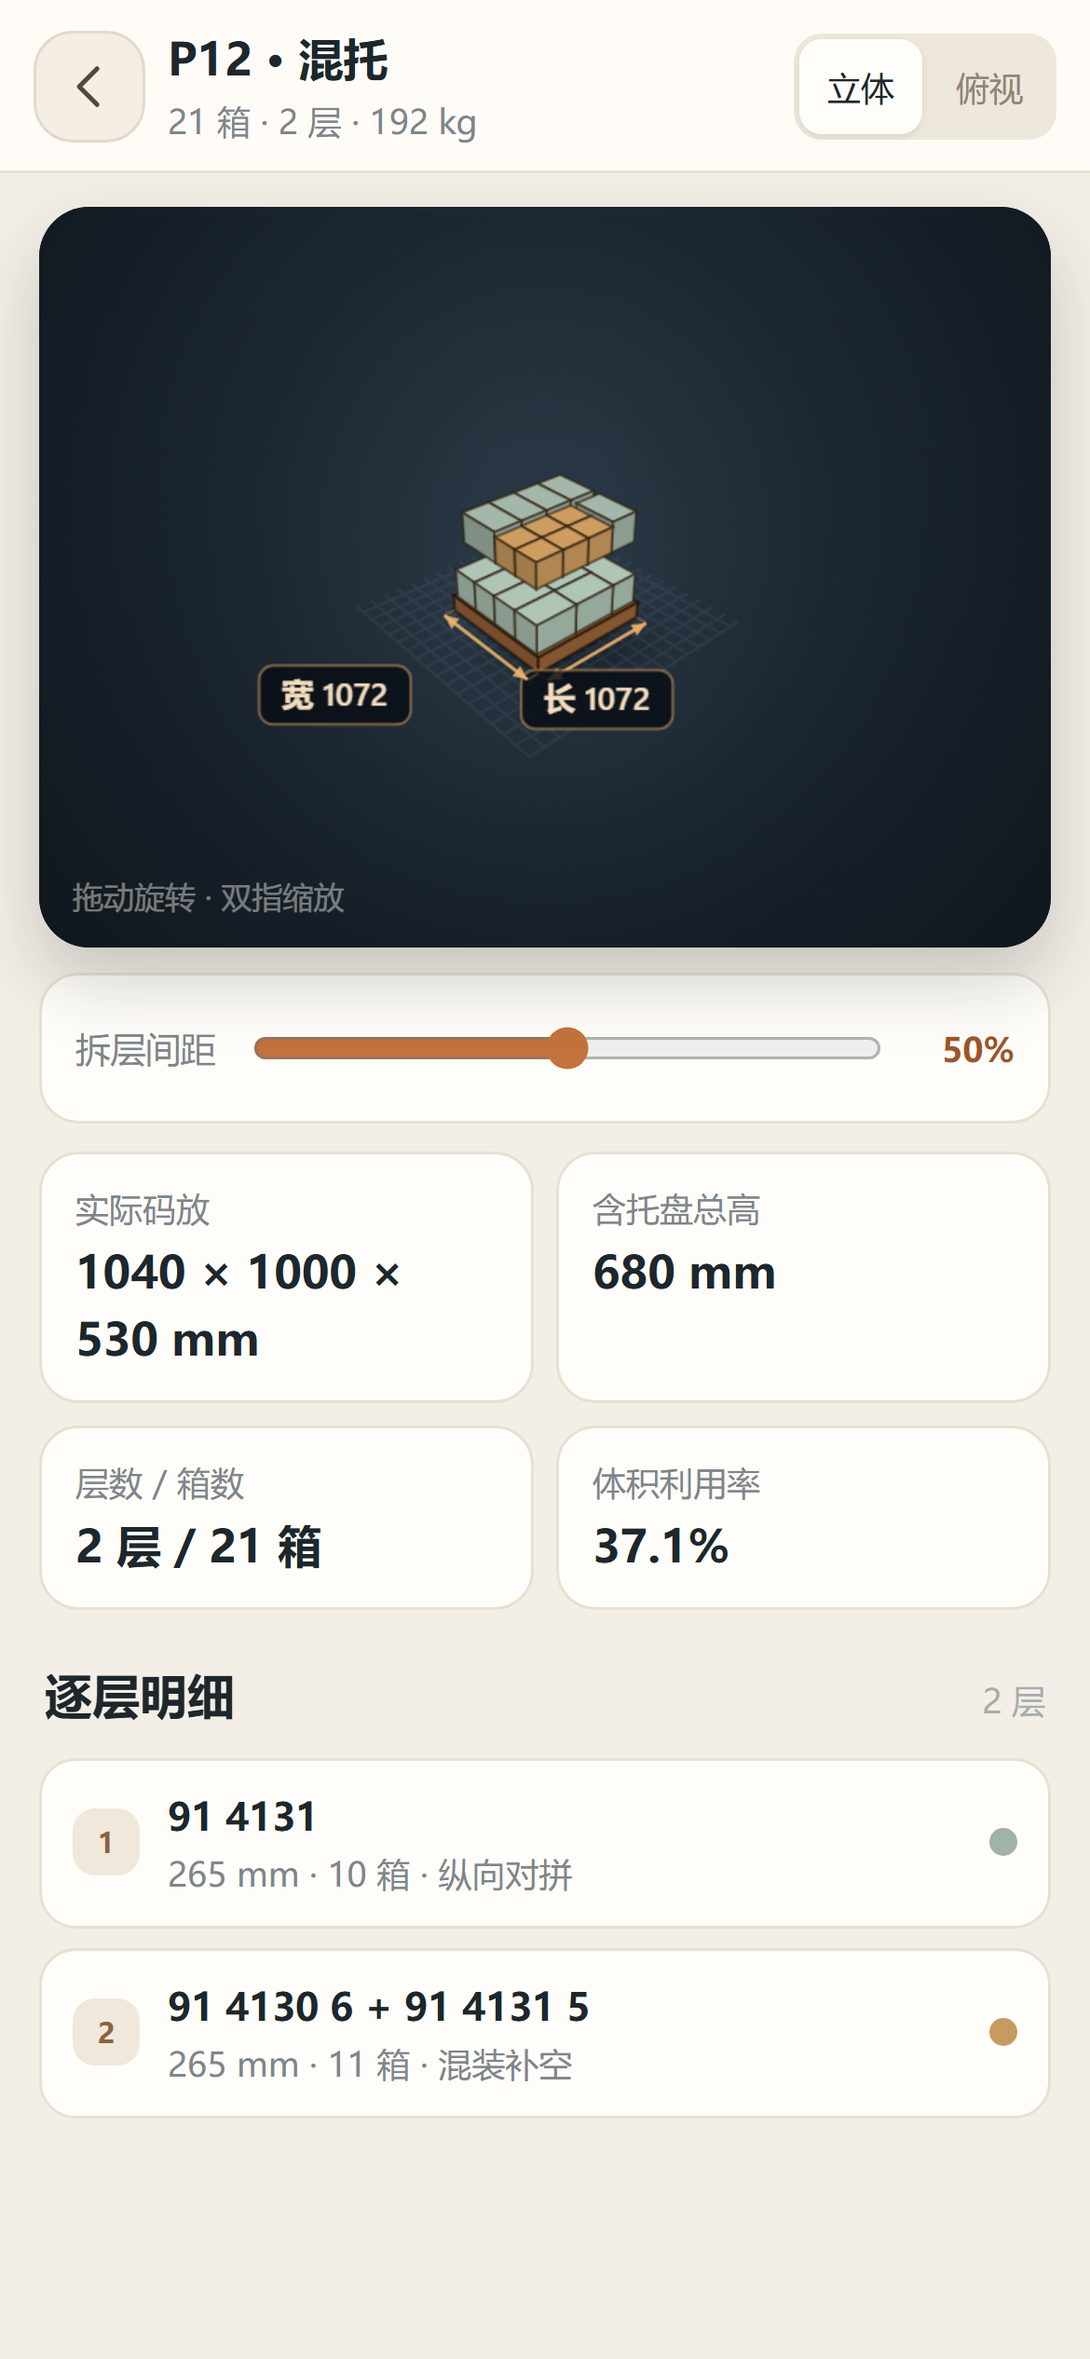
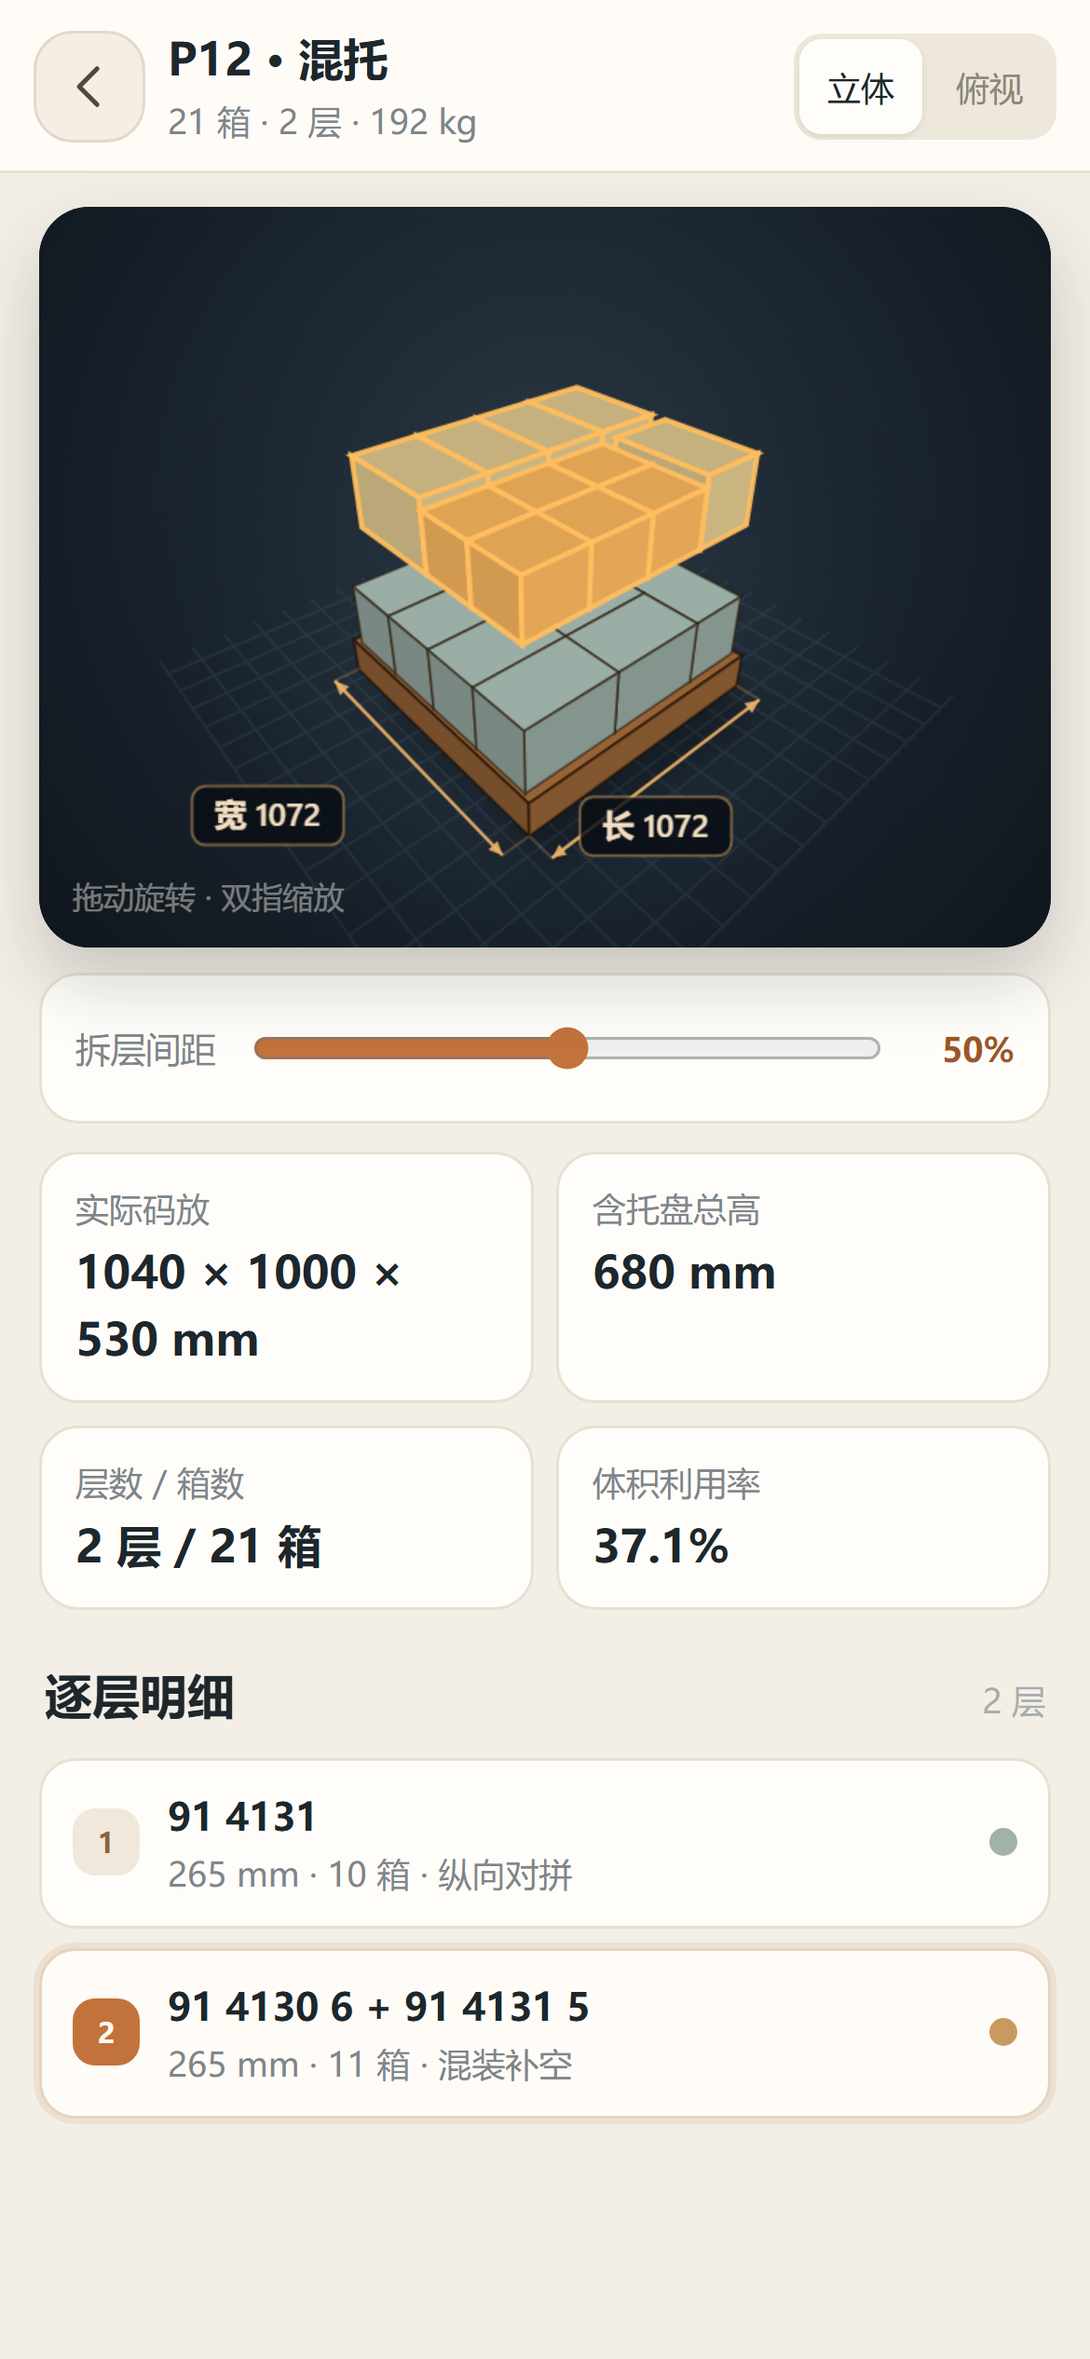
Palletizer v1.4: pinch direction, layer highlight, font size setting

Changed region(s): [[0.1846, 0.156, 0.7077, 0.3744], [0.0615, 0.8424, 0.1231, 0.8736]]

diff --git a/css/readability.css b/css/readability.css
@@ -1,59 +1,68 @@
-/* Palletizer v1.2：手机可读性 + 3D 拆层间距 */
+/* Palletizer：手机可读性、字体档位、3D 拆层间距 */
+:root { --fs: 1; }
+html[data-font="large"] { --fs: 1.12; }
+html[data-font="xlarge"] { --fs: 1.24; }
+html[data-font="xxlarge"] { --fs: 1.36; }
+
 html { -webkit-text-size-adjust: 100%; }
-body { font-size: 17px; line-height: 1.5; }
-.brand-text h1 { font-size: 21px; }
-.brand-text p { font-size: 12px; }
-.brand-mark { width: 40px; height: 40px; font-size: 21px; }
-.card h2, .card-title { font-size: 17px; }
-.chip { font-size: 12px; padding: 5px 10px; }
-.text-btn { font-size: 15px; }
-.field span { font-size: 13px; }
-.field input { height: 50px; font-size: 18px; }
-.usable-line span { font-size: 13px; }
-.usable-line strong { font-size: 23px; }
-.micro { font-size: 13px; }
-.carton-main strong { font-size: 15px; }
-.carton-main small { font-size: 13px; }
-.carton-qty b { font-size: 19px; }
-.carton-qty span { font-size: 10px; }
-.switch-row { min-height: 60px; }
-.switch-row b { font-size: 15px; }
-.switch-row small { font-size: 13px; }
-.primary-btn { min-height: 56px; font-size: 17px; }
-.secondary-btn { font-size: 15px; }
-.input-hint { font-size: 12px; }
-.hero-kicker { font-size: 12px; }
-.hero-total strong { font-size: 64px; }
-.hero-sub { font-size: 13px; }
-.hero-grid b { font-size: 18px; }
-.hero-grid span { font-size: 11.5px; }
-.plan-note { font-size: 13px; }
-.section-line h2 { font-size: 17px; }
-.section-line span { font-size: 12px; }
-.pallet-main strong { font-size: 15px; }
-.pallet-main small { font-size: 13px; line-height: 1.45; }
-.pallet-num b { font-size: 20px; }
-.pallet-num span { font-size: 10px; }
-.badge { font-size: 10px; padding: 3px 7px; }
-.empty-state h2 { font-size: 19px; }
-.empty-state p { font-size: 13px; }
-.settings-text { font-size: 13px; }
-.settings-text.muted { font-size: 11.5px; }
-.list-btn span { font-size: 15px; }
-.list-btn em { font-size: 11px; }
-.install-badge { font-size: 12px; }
-.tab { font-size: 13px; min-height: 56px; }
-.tab svg { width: 23px; height: 23px; }
-.detail-head h2 { font-size: 16px; }
-.detail-head p { font-size: 12px; }
-.seg button { font-size: 12px; padding: 8px 10px; }
-.scene-hint { font-size: 11px; }
-.detail-metrics span { font-size: 12px; }
-.detail-metrics b { font-size: 16px; }
-.layer-main strong { font-size: 13.5px; }
-.layer-main small { font-size: 12px; }
-.sheet-head h2 { font-size: 19px; }
-.toast { font-size: 13px; }
+body { font-size: calc(17px * var(--fs)); line-height: 1.5; }
+.view {
+  padding-top: calc(78px + var(--safe-top) + (var(--fs) - 1) * 22px);
+  padding-bottom: calc(92px + var(--safe-bottom) + (var(--fs) - 1) * 18px);
+}
+.brand-text h1 { font-size: calc(21px * var(--fs)); }
+.brand-text p { font-size: calc(12px * var(--fs)); }
+.brand-mark { width: calc(40px * var(--fs)); height: calc(40px * var(--fs)); font-size: calc(21px * var(--fs)); }
+.card h2, .card-title { font-size: calc(17px * var(--fs)); }
+.chip { font-size: calc(12px * var(--fs)); padding: 5px 10px; }
+.text-btn { font-size: calc(15px * var(--fs)); }
+.field span { font-size: calc(13px * var(--fs)); }
+.field input { height: calc(50px * var(--fs)); font-size: calc(18px * var(--fs)); }
+.usable-line span { font-size: calc(13px * var(--fs)); }
+.usable-line strong { font-size: calc(23px * var(--fs)); }
+.micro { font-size: calc(13px * var(--fs)); }
+.carton-main strong { font-size: calc(15px * var(--fs)); }
+.carton-main small { font-size: calc(13px * var(--fs)); }
+.carton-qty b { font-size: calc(19px * var(--fs)); }
+.carton-qty span { font-size: calc(10px * var(--fs)); }
+.switch-row { min-height: calc(60px * var(--fs)); }
+.switch-row b { font-size: calc(15px * var(--fs)); }
+.switch-row small { font-size: calc(13px * var(--fs)); }
+.primary-btn { min-height: calc(56px * var(--fs)); font-size: calc(17px * var(--fs)); }
+.secondary-btn { font-size: calc(15px * var(--fs)); }
+.input-hint { font-size: calc(12px * var(--fs)); }
+.hero-kicker { font-size: calc(12px * var(--fs)); }
+.hero-total strong { font-size: calc(64px * var(--fs)); }
+.hero-sub { font-size: calc(13px * var(--fs)); }
+.hero-grid b { font-size: calc(18px * var(--fs)); }
+.hero-grid span { font-size: calc(11.5px * var(--fs)); }
+.plan-note { font-size: calc(13px * var(--fs)); }
+.section-line h2 { font-size: calc(17px * var(--fs)); }
+.section-line span { font-size: calc(12px * var(--fs)); }
+.pallet-main strong { font-size: calc(15px * var(--fs)); }
+.pallet-main small { font-size: calc(13px * var(--fs)); line-height: 1.45; }
+.pallet-num b { font-size: calc(20px * var(--fs)); }
+.pallet-num span { font-size: calc(10px * var(--fs)); }
+.badge { font-size: calc(10px * var(--fs)); padding: 3px 7px; }
+.empty-state h2 { font-size: calc(19px * var(--fs)); }
+.empty-state p { font-size: calc(13px * var(--fs)); }
+.settings-text { font-size: calc(13px * var(--fs)); }
+.settings-text.muted { font-size: calc(11.5px * var(--fs)); }
+.list-btn span { font-size: calc(15px * var(--fs)); }
+.list-btn em { font-size: calc(11px * var(--fs)); }
+.install-badge { font-size: calc(12px * var(--fs)); }
+.tab { font-size: calc(13px * var(--fs)); min-height: calc(56px * var(--fs)); }
+.tab svg { width: calc(23px * var(--fs)); height: calc(23px * var(--fs)); }
+.detail-head h2 { font-size: calc(16px * var(--fs)); }
+.detail-head p { font-size: calc(12px * var(--fs)); }
+.seg button { font-size: calc(12px * var(--fs)); padding: 8px 10px; }
+.scene-hint { font-size: calc(11px * var(--fs)); }
+.detail-metrics span { font-size: calc(12px * var(--fs)); }
+.detail-metrics b { font-size: calc(16px * var(--fs)); }
+.layer-main strong { font-size: calc(13.5px * var(--fs)); }
+.layer-main small { font-size: calc(12px * var(--fs)); }
+.sheet-head h2 { font-size: calc(19px * var(--fs)); }
+.toast { font-size: calc(13px * var(--fs)); }
 
 /* 3D 拆层间距 */
 .explode-row {
@@ -61,6 +70,13 @@ body { font-size: 17px; line-height: 1.5; }
   margin-top: 9px; padding: 10px 12px;
   background: var(--card); border: 1px solid var(--line); border-radius: 14px;
 }
-.explode-row span { font-size: 12.5px; color: var(--muted); white-space: nowrap; }
+.explode-row span { font-size: calc(12.5px * var(--fs)); color: var(--muted); white-space: nowrap; }
 .explode-row input[type="range"] { flex: 1; accent-color: var(--accent); height: 28px; }
-.explode-row b { font-size: 12px; color: var(--accent-dark); min-width: 34px; text-align: right; }
+.explode-row b { font-size: calc(12px * var(--fs)); color: var(--accent-dark); min-width: 34px; text-align: right; }
+
+/* 字体大小设置 */
+.font-row { display: flex; align-items: center; justify-content: space-between; gap: 10px; }
+.font-row > span { font-size: calc(13px * var(--fs)); color: var(--muted); white-space: nowrap; }
+.font-seg { display: flex; gap: 3px; background: #f1ede5; border-radius: 12px; padding: 3px; }
+.font-seg button { border: 0; background: transparent; color: #8c8579; font-size: calc(12px * var(--fs)); border-radius: 9px; padding: 8px 9px; min-height: 36px; }
+.font-seg button.active { background: var(--card); color: var(--accent-dark); font-weight: 700; box-shadow: 0 1px 4px rgba(0,0,0,.08); }

diff --git a/js/mobile.js b/js/mobile.js
@@ -4,7 +4,7 @@
   var Core = window.PalletCore;
   var XL = window.XlsxLite;
   var KEY = 'palletizer.v1';
-  var VERSION = '1.3.0';
+  var VERSION = '1.4.0';
   var PALETTE = ['#C99A5F', '#9FB3A6', '#C7A6A0', '#B1A3C9', '#D1B280', '#8FA9B8'];
 
   var DEFAULTS = {
@@ -18,7 +18,8 @@
       gap: 0, margin: 0, sheet: 0, overhang: 0, maxLoad: 1000, maxLayers: 0,
       allowSide: false, allowUprightLay: false,
       allowMix: true, allowSmallBottom: true, globalOptimize: false
-    }
+    },
+    fontSize: 'normal'
   };
 
   var state = loadState();
@@ -80,6 +81,9 @@
         });
         if (!s.cartons.length) s.cartons = clone(DEFAULTS.cartons);
       }
+      if (['normal', 'large', 'xlarge', 'xxlarge'].indexOf(saved.fontSize) >= 0) {
+        s.fontSize = saved.fontSize;
+      }
     } catch (e) { /* ignore broken storage */ }
     return s;
   }
@@ -94,6 +98,16 @@
     el.classList.add('show');
     clearTimeout(toast._t);
     toast._t = setTimeout(function () { el.classList.remove('show'); }, 2400);
+  }
+
+  function applyFontSize() {
+    var size = ['normal', 'large', 'xlarge', 'xxlarge'].indexOf(state.fontSize) >= 0 ? state.fontSize : 'normal';
+    state.fontSize = size;
+    document.documentElement.dataset.font = size;
+    $all('#fontSeg button').forEach(function (b) {
+      b.classList.toggle('active', b.dataset.font === size);
+    });
+    if (scene) setTimeout(function () { scene.resize(); }, 80);
   }
 
   function usableH() { return Math.max(0, state.pallet.H - state.pallet.base); }
@@ -453,7 +467,7 @@
       var color = '#C99A5F';
       if (p.type === 'mixed' && u.skuIndex >= 0) color = PALETTE[u.skuIndex % PALETTE.length];
       if (u.parts && u.parts.length) color = PALETTE[u.parts[0].skuIndex % PALETTE.length];
-      return '<div class="layer-row">' +
+      return '<div class="layer-row" data-layer="' + i + '" role="button" tabindex="0">' +
         '<span class="layer-index">' + (i + 1) + '</span>' +
         '<span class="layer-main"><strong>' + esc(unitLabel(u)) + '</strong>' +
         '<small>' + fmt(u.thickness) + ' mm · ' + u.count + ' 箱 · ' + esc(u.pattern) + '</small></span>' +
@@ -468,9 +482,20 @@
     requestAnimationFrame(function () {
       var s = ensureScene();
       s.resize();
+      s.selectedLayer = -1;
+      s.onlySelected = false;
       s.setModel(buildModel(p));
       s.setView('iso');
       applyExplode();
+    });
+  }
+
+  function selectLayer(index) {
+    if (!scene) return;
+    var next = scene.selectedLayer === index ? -1 : index;
+    scene.setLayerView({ selectedLayer: next, onlySelected: false });
+    $all('#layerList .layer-row').forEach(function (row) {
+      row.classList.toggle('active', Number(row.dataset.layer) === next);
     });
   }
 
@@ -780,6 +805,17 @@
     });
     $('#detailBack').addEventListener('click', closeDetail);
     $('#explodeRange').addEventListener('input', applyExplode);
+    $('#layerList').addEventListener('click', function (e) {
+      var row = e.target.closest('[data-layer]');
+      if (row) selectLayer(Number(row.dataset.layer));
+    });
+    $('#layerList').addEventListener('keydown', function (e) {
+      if (e.key !== 'Enter' && e.key !== ' ') return;
+      var row = e.target.closest('[data-layer]');
+      if (!row) return;
+      e.preventDefault();
+      selectLayer(Number(row.dataset.layer));
+    });
     $all('#viewSeg button').forEach(function (b) {
       b.addEventListener('click', function () {
         $all('#viewSeg button').forEach(function (x) { x.classList.toggle('active', x === b); });
@@ -817,13 +853,23 @@
       state = clone(DEFAULTS);
       saveState();
       syncPalletInputs(); syncAdvanced(); syncSwitches(); renderCartons();
+      applyFontSize();
       compute(false);
       switchTab('input');
       toast('已恢复示例数据');
     });
+    $('#fontSeg').addEventListener('click', function (e) {
+      var b = e.target.closest('[data-font]');
+      if (!b) return;
+      state.fontSize = b.dataset.font;
+      saveState();
+      applyFontSize();
+      toast('字体大小：' + b.textContent);
+    });
   }
 
   function init() {
+    applyFontSize();
     syncPalletInputs();
     syncAdvanced();
     syncSwitches();

diff --git a/tools/mobile-test.js b/tools/mobile-test.js
@@ -179,7 +179,7 @@ async function shot(cdp, name) {
       return { z0, z1 };
     })()`);
     console.log('pinch zoom:', pinch);
-    if (!(pinch.z1 > pinch.z0 + 0.05)) throw new Error('双指缩放未改变 3D 缩放：' + JSON.stringify(pinch));
+    if (!(pinch.z1 < pinch.z0 - 0.05)) throw new Error('双指放大应让 3D 图像变大（zoom 变小）：' + JSON.stringify(pinch));
 
     const exp0 = await evaluate(cdp, "({ value: document.querySelector('#explodeRange').value, mm: window.__palletizerScene.explode })");
     await evaluate(cdp, `(() => {
@@ -192,6 +192,17 @@ async function shot(cdp, name) {
     console.log('explode:', exp0, exp1);
     if (exp1.value !== '50' || exp1.label !== '50%') throw new Error('拆层间距滑块未更新');
     if (!(exp1.mm > exp0.mm + 1)) throw new Error('拆层间距没有作用于 3D');
+    await evaluate(cdp, "window.__palletizerScene.resetCamera()");
+    await sleep(300);
+    const layerSelect = await evaluate(cdp, `(() => {
+      document.querySelectorAll('.layer-row')[1].click();
+      return {
+        selected: window.__palletizerScene.selectedLayer,
+        active: document.querySelectorAll('.layer-row')[1].classList.contains('active')
+      };
+    })()`);
+    console.log('layer select:', layerSelect);
+    if (layerSelect.selected !== 1 || !layerSelect.active) throw new Error('逐层点击未高亮：' + JSON.stringify(layerSelect));
     await shot(cdp, 'mobile-03-detail.png');
     await evaluate(cdp, "document.querySelector('#detailBack').click()");
     await sleep(300);
@@ -236,6 +247,16 @@ async function shot(cdp, name) {
     console.log('pwa:', pwa);
     if (!pwa.manifest) throw new Error('缺少 manifest');
     if (!pwa.sw) throw new Error('Service Worker 未注册');
+    await evaluate(cdp, "document.querySelector('#fontSeg [data-font=xxlarge]').click()");
+    await sleep(400);
+    const font = await evaluate(cdp, `({
+      attr: document.documentElement.dataset.font,
+      size: getComputedStyle(document.body).fontSize,
+      active: document.querySelector('#fontSeg button.active').dataset.font
+    })`);
+    console.log('font size:', font);
+    if (font.attr !== 'xxlarge' || font.active !== 'xxlarge') throw new Error('字体档位未生效');
+    if (parseFloat(font.size) < 22) throw new Error('超大字体没有变大：' + font.size);
     await shot(cdp, 'mobile-04-settings.png');
 
     if (errors.length) throw new Error('浏览器错误：' + errors.join(' | '));

diff --git a/index.html b/index.html
@@ -120,7 +120,7 @@
     <section class="card settings-hero">
       <div class="brand-mark large">P</div>
       <div><h2>Palletizer</h2><p>托盘码放测算台 · 手机版</p></div>
-      <span class="version">v1.3</span>
+      <span class="version">v1.4</span>
     </section>
     <section class="card">
       <h2 class="card-title">数据</h2>
@@ -128,6 +128,19 @@
       <button id="btnTemplate" class="list-btn" type="button"><span>下载导入模板</span><em>托盘参数 + 纸箱明细</em></button>
       <button id="btnExport2" class="list-btn" type="button"><span>导出当前方案</span><em>Excel / 分享</em></button>
       <button id="btnReset" class="list-btn danger" type="button"><span>恢复示例数据</span><em>会覆盖当前录入</em></button>
+    </section>
+    <section class="card">
+      <h2 class="card-title">显示</h2>
+      <div class="font-row">
+        <span>字体大小</span>
+        <div class="font-seg" id="fontSeg">
+          <button data-font="normal" class="active" type="button">标准</button>
+          <button data-font="large" type="button">大</button>
+          <button data-font="xlarge" type="button">特大</button>
+          <button data-font="xxlarge" type="button">超大</button>
+        </div>
+      </div>
+      <p class="micro">调到“特大/超大”后，卡片会自动换行，页面可能需要向下滚动。</p>
     </section>
     <section class="card">
       <h2 class="card-title">安装到 iPhone</h2>

diff --git a/css/mobile.css b/css/mobile.css
@@ -306,3 +306,9 @@ svg { width: 22px; height: 22px; display: block; }
   .detail.open { transform: translateX(-50%); }
   .tabbar { max-width: 520px; left: 50%; transform: translateX(-50%); border-radius: 18px 18px 0 0; }
 }
+
+/* 逐层高亮 */
+.layer-row { cursor: pointer; transition: border-color .15s, background .15s, transform .12s; }
+.layer-row:active { transform: scale(.995); }
+.layer-row.active { border-color: #c2733c; background: #fbf1e4; box-shadow: 0 0 0 2px rgba(194,115,60,.12); }
+.layer-row.active .layer-index { background: #c2733c; color: #fff8ee; }

diff --git a/js/render3d.js b/js/render3d.js
@@ -598,7 +598,8 @@
         }
         var d = pinchDistance();
         if (d > 0 && pinch.dist > 0) {
-          self.cam.zoom = clamp(pinch.zoom * d / pinch.dist, 0.30, 5.0);
+          // cam.zoom 越大，相机离得越远、图像越小；双指张开应让 zoom 变小
+          self.cam.zoom = clamp(pinch.zoom * pinch.dist / d, 0.30, 5.0);
           self.requestRender();
         }
         return;

diff --git a/sw.js b/sw.js
@@ -1,5 +1,5 @@
 /* Palletizer 离线缓存 */
-const CACHE = 'palletizer-v1.3.0';
+const CACHE = 'palletizer-v1.4.0';
 const ASSETS = [
   './',
   './index.html',

diff --git a/README.md b/README.md
@@ -3,7 +3,7 @@
 **托盘码放测算台 · 手机版**  
 A mobile-first pallet loading calculator for iPhone.
 
-**v1.3：字号调大；3D 双指缩放；拆层间距可调；不增加托盘时优先合并尾层、保证顶部平整。**
+**v1.4：字体档位（标准/大/特大/超大）；双指放大方向修正；点逐层高亮；拆层间距可调；顶部平整合并。**
 
 > 目标部署地址：<https://taneli888.github.io/palletizer/>  
 > GitHub 仓库：<https://github.com/taneli888/palletizer>  
@@ -14,6 +14,7 @@ A mobile-first pallet loading calculator for iPhone.
 ![Palletizer 录入](docs/mobile-input.png)
 ![Palletizer 方案](docs/mobile-plan.png)
 ![Palletizer 3D 详情](docs/mobile-detail.png)
+![Palletizer 字体设置](docs/mobile-settings.png)
 
 ## 这是什么
 
@@ -25,6 +26,8 @@ Palletizer 是一个纯前端 PWA，针对 iPhone 屏幕重新做了界面：
 - 自动计算整托 / 尾托 / 混托 / 全局省托；
 - 每一托可以打开 3D 查看，显示实际尺寸和含托盘总高；拖动旋转，**双指捏合缩放**；
 - 3D 详情里有 **拆层间距** 滑块，层数多时可以拉开看清每一层；
+- 点“逐层明细”里的任意一层，该层会在 3D 中高亮，其他层变暗；
+- 设置里有 **字体大小：标准 / 大 / 特大 / 超大**；
 - **顶部平整**：不增加托盘数时，尽量把多个“不完整顶层”的尾箱并到一个托盘上，其他托盘恢复整层平顶；
 - 导出 / 分享 Excel；
 - 安装到 iPhone 主屏幕后可全屏、离线运行。
